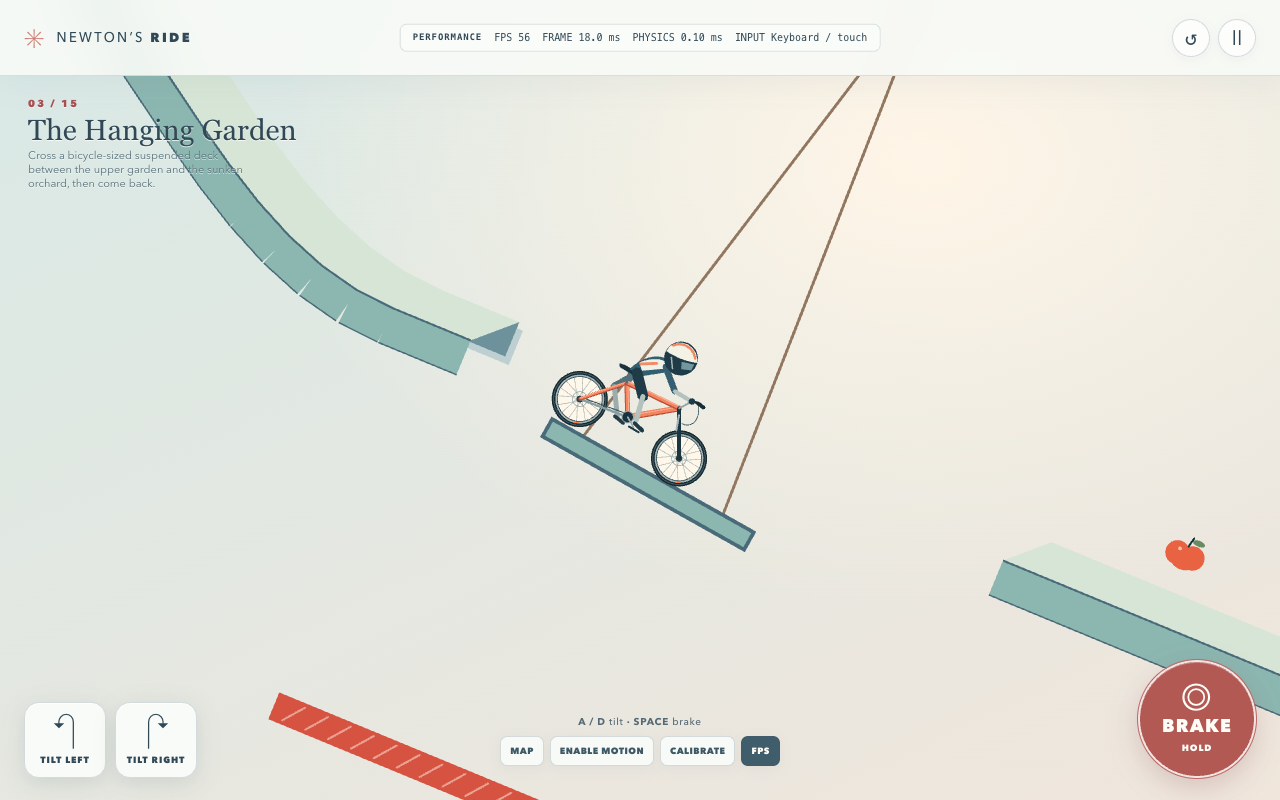
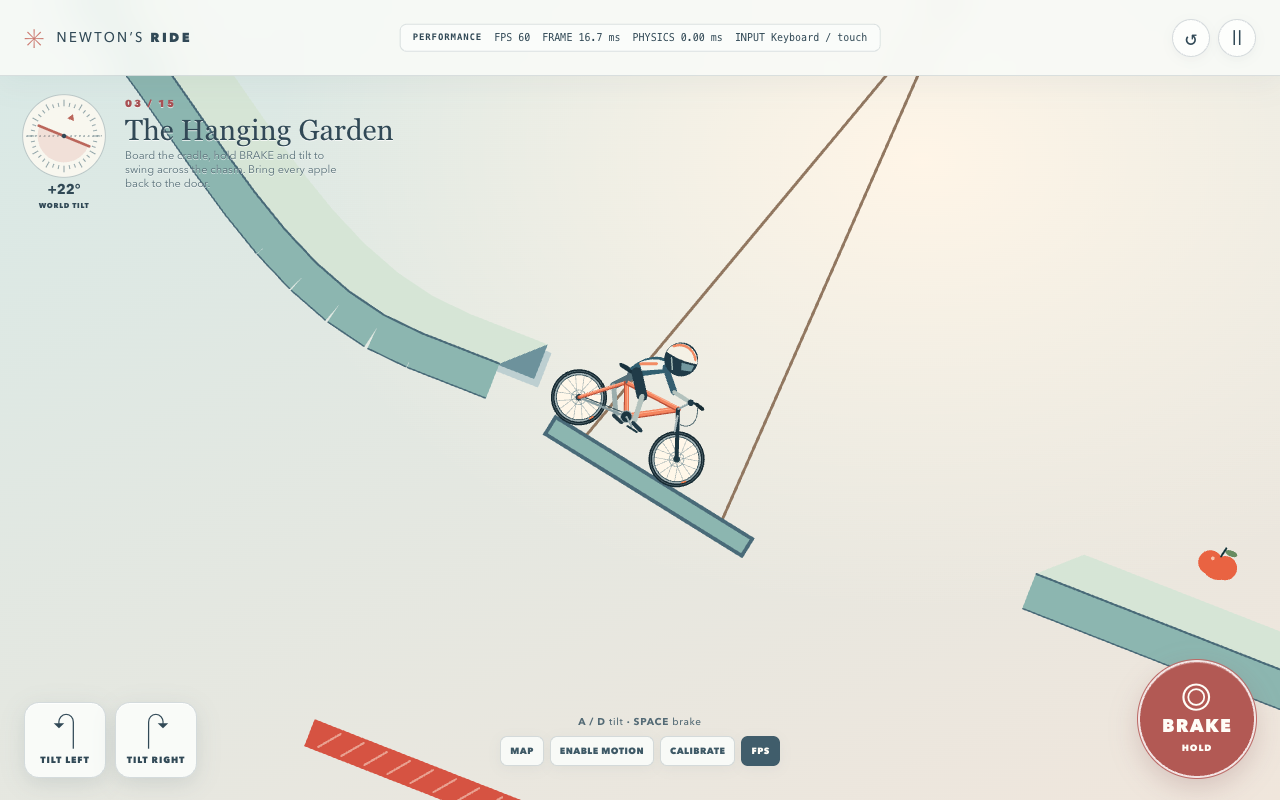
Slow the garden cradle and stabilize boarding
The Hanging Garden cradle moves away too quickly while the player boards or leaves it. Increase its damping from 8 to 10, retaining the same deck, gap, ropes and mass. The first metre of empty-cradle movement takes 2.14 seconds instead of 1.77 through the phone-input simulation, giving roughly 20% more reaction time.

The normal-control reference route now eases onto the deck with symmetric speed feedback before braking. It completes the full five-apple round trip with 3.549 m of continuous both-wheel support outward and 3.400 m returning. Existing support thresholds and fixed/removed-deck counterfactual tests remain unchanged.

Validation: 161 physics/unit checks, TypeScript, production build, rendered browser round trip, and fresh Astra review. Boarding-speed probes from 1.8 to 2.2 m/s also pass. Actual handset handling remains unverified; braking too early can still lift a wheel.

diff --git a/src/levels/early.ts b/src/levels/early.ts
@@ -78,7 +78,7 @@ export const earlyLevels: Level[] = [
     spawn: p(0, .72), bounds: box(-7, -8, 54, 11), surfaces: [
       ...terrain('garden', gardenProfile, [[27, 34]]), hazard('garden-water', 30.5, -4, 8),
     ],
-    swings: [{ id: 'garden-swing', anchor: p(30.5, 7.16), length: 7, width: 2.8, mass: 20, damping: 8, angle: -.3 }],
+    swings: [{ id: 'garden-swing', anchor: p(30.5, 7.16), length: 7, width: 2.8, mass: 20, damping: 10, angle: -.3 }],
     apples: [6, 17, 27, 36, 47.5].map((x, i) => fruit(`garden-${i}`, gardenProfile, x)),
     exit: p(-1.5, .8), difficulty: 3, accent: '#8dc68c',
   },
@@ -121,7 +121,7 @@ const profiles = [orchardProfile, wonderProfile, gardenProfile, millProfile, roo
 /** Only observes snapshots and supplies the same angle/brake inputs available to a phone player. */
 export function createEarlyReplayPilot(index: number) {
   let previous: Snapshot | undefined, returning = false, stage = 0, catchStage = 0, gardenStage = 0;
-  let previousBikeAngle = 0;
+  let previousBikeAngle = 0, gardenBoardingReleased = false;
   const turnX = [0, 0, 0, 44, 38][index], turnY = [0, 0, 0, 9, 6][index];
   return (state: Snapshot): Controls => {
     const vx = previous ? (state.bike.x - previous.bike.x) * 120 : 0;
@@ -148,16 +148,25 @@ export function createEarlyReplayPilot(index: number) {
         if (gardenStage === 2 && deck.x > 32.45) gardenStage = 3;
         if (gardenStage === 3 && state.bike.x > 35) gardenStage = 4;
         if (gardenStage === 4 && returning && state.bike.x < 34.9) gardenStage = 5;
-        if (gardenStage === 5 && deck.x > 32.59 && Math.abs(vx) < .15) gardenStage = 6;
+        if (gardenStage === 5 && deck.x > 32.59 && Math.abs(vx) < .15) {
+          gardenStage = 6; gardenBoardingReleased = false;
+        }
         if (gardenStage === 6 && state.bike.x < deck.x + .45) gardenStage = 7;
         if (gardenStage === 7 && deck.x < 28.55) gardenStage = 8;
         if (gardenStage === 8 && state.bike.x < 26) gardenStage = 9;
         if (gardenStage === .5) return control(-.5, true);
-        if (gardenStage === 1) return control(.1, state.worldAngle < 0);
+        if (gardenStage === 1 || gardenStage === 6) {
+          const boardingDirection = gardenStage === 1 ? 1 : -1;
+          // Level the world before releasing the bank-side brake. Then ease
+          // onto the sloped deck at a controlled speed, avoiding a hard stop
+          // that pitches a wheel up when the cradle starts its loaded trip.
+          if (state.worldAngle * boardingDirection >= 0) gardenBoardingReleased = true;
+          const target = bikeAngle + clamp((boardingDirection * 2 - vx) * .4, -.3, .3);
+          return control(target, !gardenBoardingReleased);
+        }
         if (gardenStage === 2) return control(.5, true);
         if (gardenStage === 3) return control(.55);
         if (gardenStage === 5) return control(.5, true);
-        if (gardenStage === 6) return control(state.bike.x > 34 ? -.35 : -.05, state.bike.x > 34 && state.worldAngle > 0);
         if (gardenStage === 7) return control(-.5, true);
         if (gardenStage === 8) return control(-.55);
       }

diff --git a/docs/hanging-garden.md b/docs/hanging-garden.md
@@ -1,19 +1,21 @@
 # Hanging Garden: a travelling cradle
 
-The old 2.8 m deck occupied almost the entire 3 m opening, allowing a straight ride across. The revised opening runs from x=27 to x=34: 7 m wide. The pendulum length also increases from 3 to 7 m, preserving the same enlargement factor. The deck remains 2.8 m wide, so it occupies only 40% of the opening and cannot form a stationary bridge between the banks.
+The opening runs from x=27 to x=34: 7 m wide, with a 7 m pendulum. Both increased from 3 m together. The 2.8 m deck occupies only 40% of the opening, so it must travel between banks. Initial placement clears the bank; physical edge contacts act as docking stops. The lower hazard spans the opening.
 
-The raised anchor and initial deck angle provide a clear starting pose. Contacts at the bank edges serve as docking stops; the deck must be able to depart under changed gravity. The lower hazard spans the widened opening. The cradle has more mass (20 versus the default 3) and stronger damping (8), so boarding does not shove it away and players have time to control the crossing. Other maps keep their mass and damping. Pendulums remain awake: Rapier otherwise froze the damped empty cradle midway toward a bank. Bicycle geometry is unchanged.
+## Slower boarding response
 
-The intended route is to board, hold the brake and tilt to move the loaded cradle, then release the brake to ride off onto the opposite bank. On the return journey, stop on the right bank and call the cradle back before boarding. All five apples still need to return to the original door.
+Map 3 uses damping 10 instead of 8, retaining mass 20, the same geometry, and normal tilt/brake physics. Other maps keep their existing settings. In a browser simulation through the phone orientation input and smoothing, a held +0.3 rad target moves the empty cradle its first metre in 2.14 seconds instead of 1.77, and three metres in 9.06 seconds instead of 7.31. This provides about 20–24% more reaction time. Pendulums stay awake so the damped empty cradle reaches the bank rather than freezing midway.
 
-The reference pilot uses only the same tilt and brake controls as the player. It does not move rigid bodies, attach the bicycle to the deck, lock progression to a scripted checkpoint or bypass head collisions.
+Stop at the edge and tilt toward your bank to call the cradle. Roll aboard gently, hold brake and tilt toward the opposite bank, then release to ride off. Repeat on the return and bring all five apples to the starting door.
 
-Validation measures loaded cradle travel independently on the outward and return legs. Oscillating at one bank must not count as crossing twice. Counterfactual tests replay the exact successful controls with the deck fixed or removed. This tests the missing physical movement rather than a controller waiting for a missing object identifier.
+The reference pilot now eases aboard with speed feedback instead of fixed boarding angles that built up excessive speed. It levels before releasing the bank-side brake, then targets 2 m/s before holding brake for the loaded swing. It uses only ordinary tilt and brake inputs; it never changes poses, attaches the bicycle to the deck or bypasses head collisions.
 
-## Validation and review
+## Validation
 
-The normal-control route completes in 64.66 seconds, collecting all five apples and returning to the door. Independent contiguous both-wheel support measurements show 3.161 m of outward travel and 3.143 m on the return; brake is held for 10.275 seconds while aboard. Total deck travel between docks is about 4.23 m. The rendered desktop browser journey reproduces these results without page errors. Portrait layout was also inspected at 390×844.
+The final normal-control route completes in 70.358 seconds with all five apples returned home. Continuous both-wheel supported travel measures 3.549 m outward and 3.400 m on the return, with 13.492 seconds of braking aboard. Existing acceptance thresholds remain unchanged: over 3 m continuous supported travel separately in each direction, full completion, and counterfactual failures when the same recorded successful inputs run with the deck fixed or removed.
 
-Astra review caught the original bank penetration and a removed-deck test that had become dependent on observing the missing deck. Both were corrected. Residual: the reference route proves a valid normal-control solution, but physical phone handling has not been retested on an actual handset in this change. Boarding still requires slowing down and waiting for the cradle; it is intentionally a timing puzzle.
+All 18 targeted checks pass. Diagnostic boarding targets from 1.8 through 2.2 m/s also complete and satisfy both support thresholds. Changing the brake engagement position by ±0.1 m still completes; braking earlier can briefly lift a wheel and reduce continuous support, so this is a valid slower route rather than a claim that arbitrary boarding timing is safe.
 
-Final release checks: 161 unit/physics tests pass across 17 files; the rendered full-route browser test passes; TypeScript and the GitHub Pages production build pass. Astra final review reports no blocking findings.
+Fresh Astra review found no blocking issues. Actual handling on a physical handset remains unverified; the phone-response measurements use simulated orientation events through the real input controller.
+
+Final release checks: 161 physics/unit tests pass across 17 files; the rendered browser round trip reproduces the final route and support measurements without page errors; TypeScript and the GitHub Pages production build pass. The updated screenshot is in `docs/evidence/garden-swing-crossing.png`.
